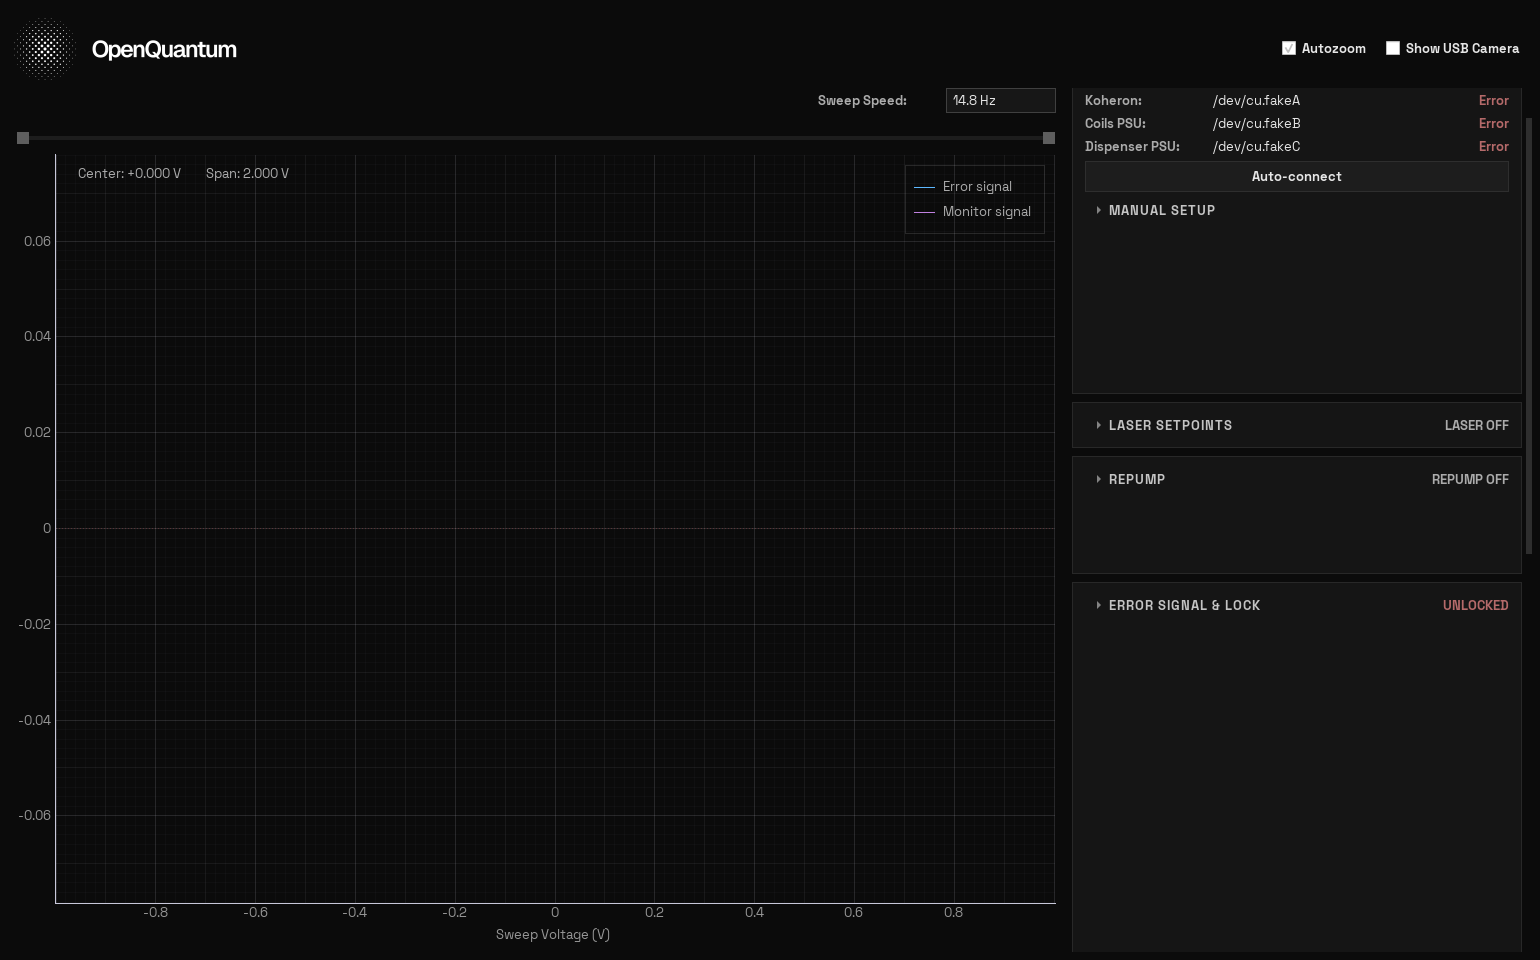
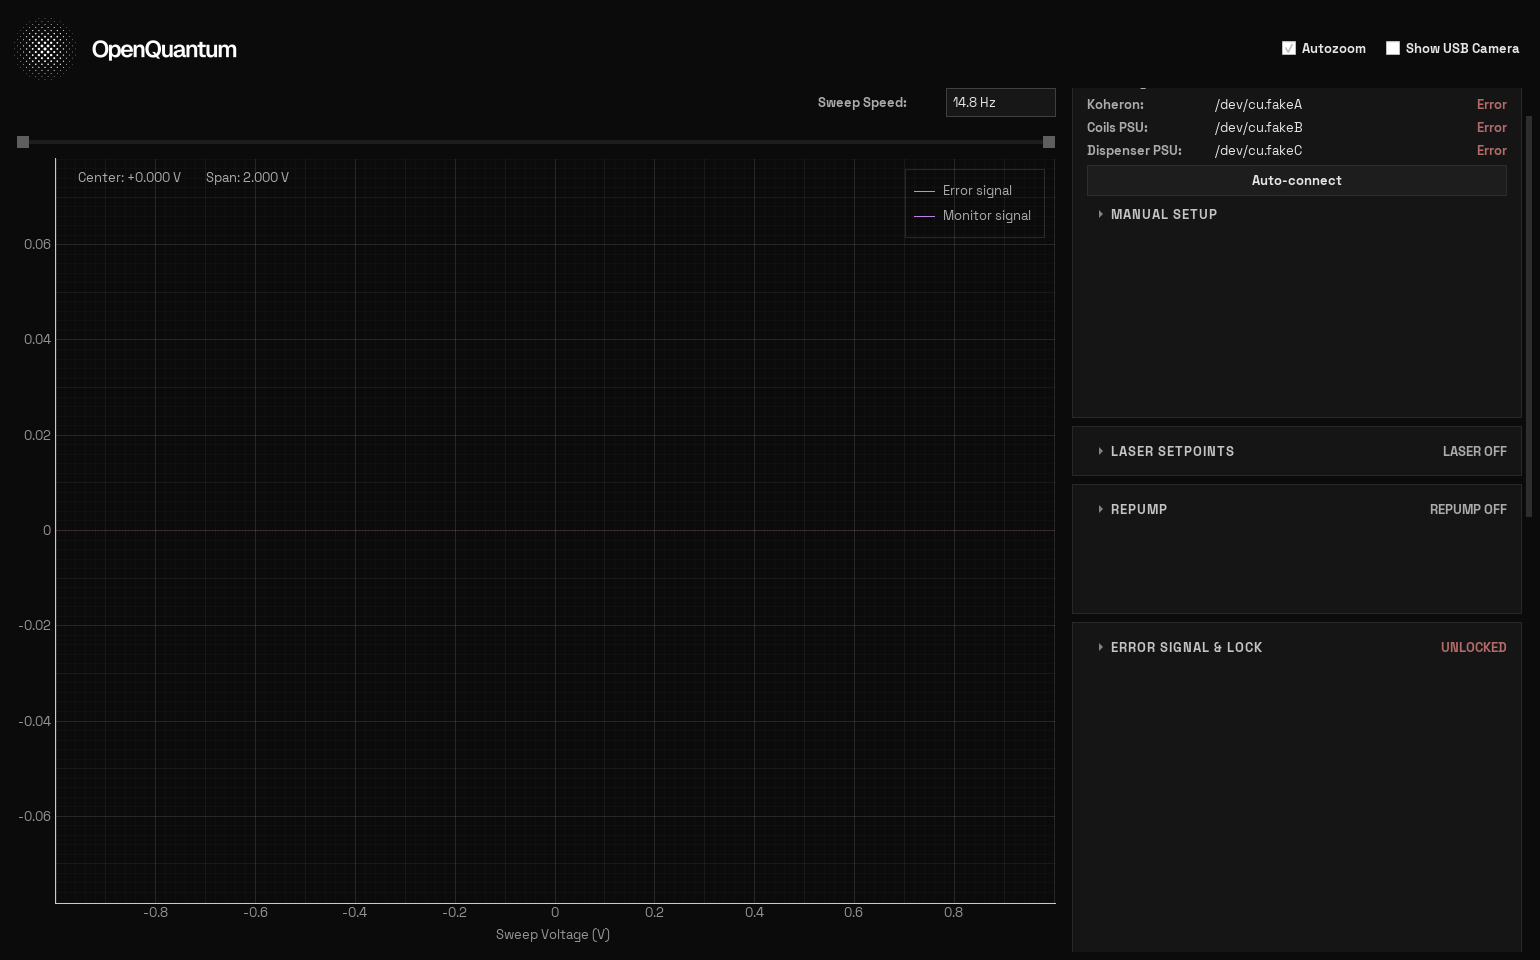
Loosen the spacing scale; square and neutralise the spinbox buttons
Measured rather than eyeballed: body text is 21px tall, but line edits
and combos were 25px -- two pixels of air -- while buttons were 31px.
That mismatch is what read as squished. Inputs now take 4px of vertical
padding instead of 2, landing at 29px, so a row of mixed controls sits on
one visual height.

Around that: labelled rows get 3px above and below instead of 2, card
interiors go to 14/12 and match between framed and nested cards, and
section titles gain room above so they separate from the control before
them rather than crowding it.

The spinbox up/down buttons kept a purple #5a5a70 and rounded corners
from before the flat grey pass. The palette sweep missed the colour and
the corner assertion only matched a plain "border-radius", so the
per-corner spelling slipped through; the check now catches both and
covers the combo and app stylesheets too.

diff --git a/mot_control.py b/mot_control.py
@@ -194,15 +194,17 @@ def build_app_stylesheet():
         "QAbstractSpinBox {"
         " background: #171717; color: #efefef; font-size: 13px;"
         " border: 1px solid #404040; border-radius: 0px;"
-        " padding: 2px 6px;"
+        " padding: 4px 6px;"
         " selection-background-color: #383838; }\n"
         "QAbstractSpinBox:focus { border-color: #949494; }\n"
+        # Square and neutral like every other control. These kept a purple
+        # tint and rounded corners: the palette sweep missed the colour,
+        # and the corner check only matches a plain "border-radius".
         "QAbstractSpinBox::up-button, QAbstractSpinBox::down-button {"
-        " background: #5a5a70; border: none; width: 14px; }\n"
-        "QAbstractSpinBox::up-button { border-top-right-radius: 3px; }\n"
-        "QAbstractSpinBox::down-button { border-bottom-right-radius: 3px; }\n"
+        " background: #2e2e2e; border: none; border-radius: 0px;"
+        " width: 16px; }\n"
         "QAbstractSpinBox::up-button:hover,"
-        " QAbstractSpinBox::down-button:hover { background: #6a6a82; }\n"
+        " QAbstractSpinBox::down-button:hover { background: #454545; }\n"
         "QComboBox { border: 1px solid #404040; }\n"
     )
 
@@ -337,7 +339,7 @@ COMBO_STYLE = """
         color: #e6e6e6;
         border: 1px solid #404040;
         border-radius: 0px;
-        padding: 2px 6px;
+        padding: 4px 6px;
         font-size: 13px;
     }
     QComboBox:focus {
@@ -495,9 +497,9 @@ class CollapsibleCard(QtWidgets.QFrame):
                 QtWidgets.QSizePolicy.Preferred, QtWidgets.QSizePolicy.Maximum
             )
         outer = QtWidgets.QVBoxLayout(self)
-        margin = (12, 10, 12, 10) if framed else (0, 0, 0, 0)
+        margin = (14, 12, 14, 12) if framed else (0, 0, 0, 0)
         outer.setContentsMargins(*margin)
-        outer.setSpacing(6)
+        outer.setSpacing(8)
         # Cards size to their content. Without this the last card in a
         # top-aligned column absorbs the leftover height and shows a tall
         # blank area under a collapsed section.
@@ -1559,7 +1561,7 @@ class OpenQuantumControlsWindow(QtWidgets.QMainWindow):
             row = QtWidgets.QHBoxLayout()
             # Same margins and label width as add_slider_row, so these rows
             # sit on the same rhythm as every other control in the card.
-            row.setContentsMargins(0, 2, 0, 2)
+            row.setContentsMargins(0, 3, 0, 3)
             row.setSpacing(8)
             enabled = QtWidgets.QCheckBox(f"Filter {index}")
             enabled.setCursor(QtCore.Qt.PointingHandCursor)

diff --git a/styles.py b/styles.py
@@ -103,7 +103,7 @@ APP_STYLESHEET = """
         /* Without this an editable value inherits the app default and
            renders larger than the read-only value beside it. */
         font-size: 13px;
-        padding: 2px 6px;
+        padding: 4px 6px;
         selection-background-color: #383838;
     }
     QLineEdit:focus {
@@ -198,7 +198,7 @@ def make_card() -> QtWidgets.QFrame:
         }
     """)
     layout = QtWidgets.QVBoxLayout(frame)
-    layout.setContentsMargins(12, 10, 12, 10)
+    layout.setContentsMargins(14, 12, 14, 12)
     layout.setSpacing(6)
     return frame
 
@@ -220,7 +220,7 @@ def make_section_title(text: str) -> QtWidgets.QLabel:
     label.setAlignment(QtCore.Qt.AlignLeft)
     label.setStyleSheet(
         f"color: {ACCENT}; font-size: 13px; font-weight: 600;"
-        "letter-spacing: 1px; padding: 2px 4px; border: none;"
+        "letter-spacing: 1px; padding: 6px 4px 3px 4px; border: none;"
     )
     return label
 
@@ -229,7 +229,7 @@ def add_slider_row(parent_layout, label_text, min_val, max_val, init_val,
                    single=1, page=1, suffix="", decimals=0, scale=1.0):
     """Create a labeled slider row. Returns (slider, value_edit)."""
     row = QtWidgets.QHBoxLayout()
-    row.setContentsMargins(0, 2, 0, 2)
+    row.setContentsMargins(0, 3, 0, 3)
     row.setSpacing(8)
 
     label = QtWidgets.QLabel(label_text)
@@ -270,7 +270,7 @@ def add_slider_row(parent_layout, label_text, min_val, max_val, init_val,
 def add_readout_row(parent_layout, label_text, initial_text="--", unit=""):
     """Read-only readout: label on left, value on right. Returns value QLabel."""
     row = QtWidgets.QHBoxLayout()
-    row.setContentsMargins(0, 2, 0, 2)
+    row.setContentsMargins(0, 3, 0, 3)
     row.setSpacing(8)
 
     label = QtWidgets.QLabel(label_text)

diff --git a/tests/smoke_ui.py b/tests/smoke_ui.py
@@ -93,9 +93,13 @@ assert "QAbstractSpinBox {" in stylesheet
 assert stylesheet.count(INPUT_BORDER) >= 3  # edit/spin/combo
 assert INPUT_BORDER in mot_control.COMBO_STYLE
 
-# Corners are square everywhere -- no rounded panels or controls.
+# Corners are square everywhere -- no rounded panels or controls. The
+# per-corner spellings count too: border-top-right-radius on the spinbox
+# buttons slipped past a check that only looked for "border-radius".
 assert "border-radius: 0px" in stylesheet
-assert not re.search(r"border-radius:\s*[1-9]", stylesheet)
+assert not re.search(r"[\w-]*border[\w-]*-?radius:\s*[1-9]", stylesheet)
+for sheet in (mot_control.COMBO_STYLE, mot_control.APP_STYLESHEET):
+    assert not re.search(r"[\w-]*border[\w-]*-?radius:\s*[1-9]", sheet)
 
 
 def resolved_family(widget):

diff --git a/psd_window.py b/psd_window.py
@@ -30,7 +30,7 @@ COMBO_STYLE = """
         color: #e4e4e7;
         border: 1px solid #404040;
         border-radius: 0px;
-        padding: 2px 6px;
+        padding: 4px 6px;
         font-size: %(px)dpx;
     }
     QComboBox:focus { color: white; border-color: #949494; }
